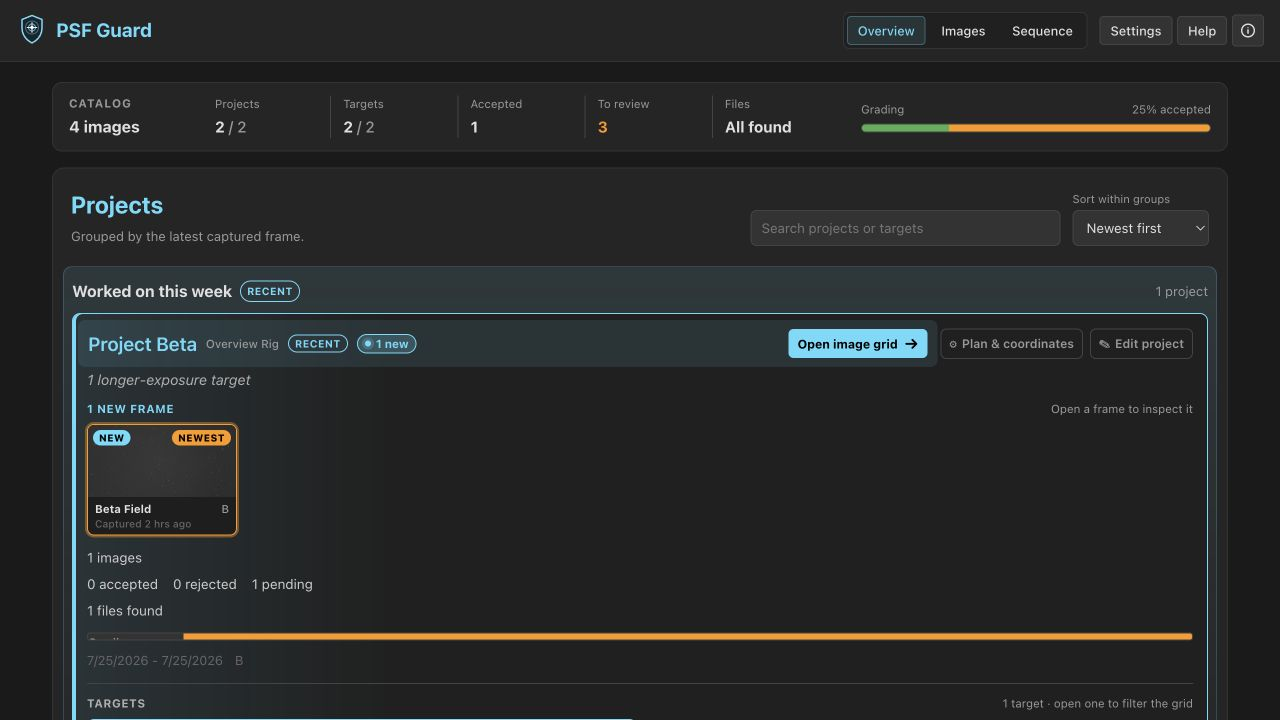
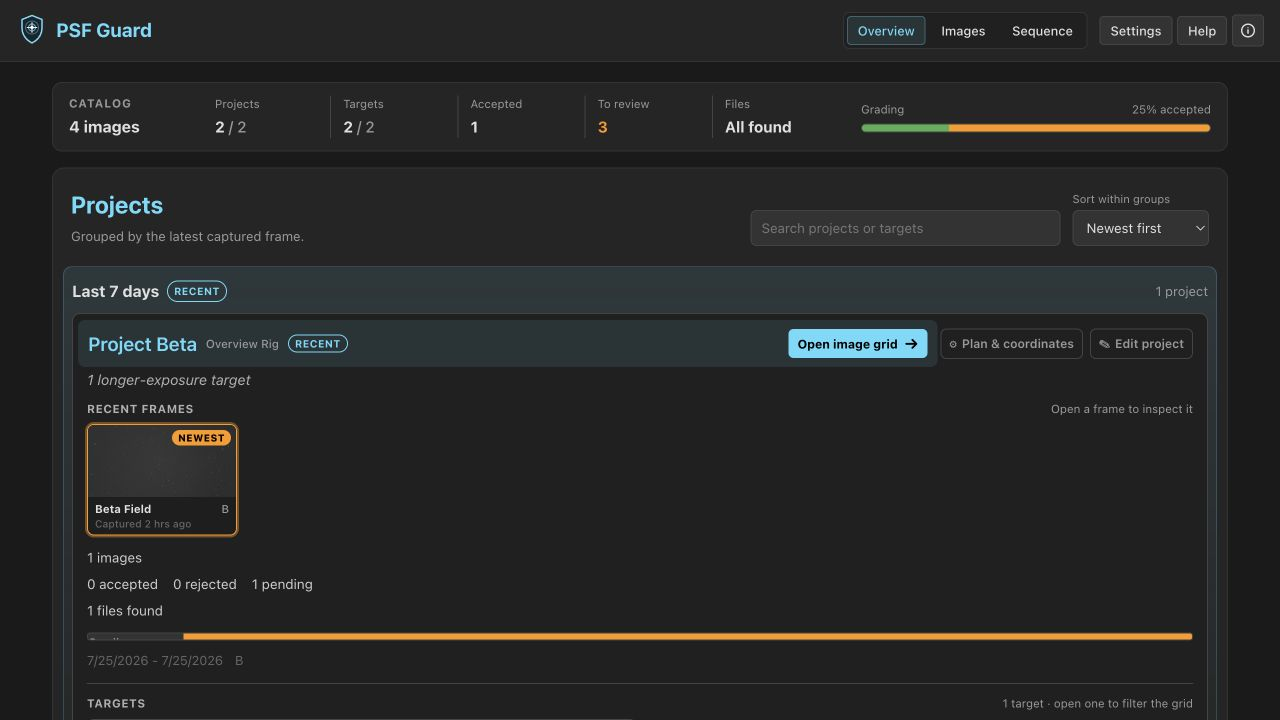
Address project navigation review

Changed region(s): [[0.0312, 0.3972, 0.25, 1.0], [0.2812, 0.9778, 0.4688, 1.0], [0.2812, 0.4583, 0.3438, 0.4889]]

diff --git a/static/src/components/ProjectTargetSelector.tsx b/static/src/components/ProjectTargetSelector.tsx
@@ -22,6 +22,8 @@ export default function ProjectTargetSelector() {
   } = useDbProjectTarget();
   const queryClient = useQueryClient();
   const rootRef = useRef<HTMLDivElement>(null);
+  const projectTriggerRef = useRef<HTMLButtonElement>(null);
+  const targetTriggerRef = useRef<HTMLButtonElement>(null);
   const projectSearchRef = useRef<HTMLInputElement>(null);
   const targetSearchRef = useRef<HTMLInputElement>(null);
   const [projectOpen, setProjectOpen] = useState(false);
@@ -40,12 +42,6 @@ export default function ProjectTargetSelector() {
     mutationFn: () => apiClient.refreshFileCache(dbId!),
     onSuccess: invalidateAllForDb,
     onError: (error) => console.error('File cache refresh failed:', error),
-  });
-
-  const refreshDirectoryCacheMutation = useMutation({
-    mutationFn: () => apiClient.refreshDirectoryCache(dbId!),
-    onSuccess: invalidateAllForDb,
-    onError: (error) => console.error('Directory cache refresh failed:', error),
   });
 
   const refreshBothCachesMutation = useMutation({
@@ -82,6 +78,8 @@ export default function ProjectTargetSelector() {
       if (event.key === 'Escape') {
         setProjectOpen(false);
         setTargetOpen(false);
+        if (projectOpen) projectTriggerRef.current?.focus();
+        else if (targetOpen) targetTriggerRef.current?.focus();
       }
     };
     document.addEventListener('pointerdown', closeMenus);
@@ -90,7 +88,7 @@ export default function ProjectTargetSelector() {
       document.removeEventListener('pointerdown', closeMenus);
       document.removeEventListener('keydown', closeOnEscape);
     };
-  }, []);
+  }, [projectOpen, targetOpen]);
 
   useEffect(() => {
     if (projectOpen) projectSearchRef.current?.focus();
@@ -158,21 +156,21 @@ export default function ProjectTargetSelector() {
       : targetsLoading
         ? 'Loading targets…'
         : selectedTarget?.name ?? 'All targets';
-  const refreshPending =
-    refreshCacheMutation.isPending ||
-    refreshDirectoryCacheMutation.isPending ||
-    refreshBothCachesMutation.isPending;
+  const refreshPending = refreshCacheMutation.isPending || refreshBothCachesMutation.isPending;
 
   return (
     <div ref={rootRef} className="project-target-selector compact">
       <div className="selector-group compact selector-picker">
-        <label id="project-select-label" htmlFor="project-select">Project:</label>
+        <label id="project-select-label" htmlFor="project-select">
+          Project:
+        </label>
         <button
+          ref={projectTriggerRef}
           id="project-select"
           type="button"
           className="compact-select selector-trigger"
           aria-labelledby="project-select-label project-select"
-          aria-haspopup="listbox"
+          aria-haspopup="dialog"
           aria-expanded={projectOpen}
           disabled={projectsLoading}
           onClick={() => {
@@ -185,7 +183,11 @@ export default function ProjectTargetSelector() {
         </button>
 
         {projectOpen && (
-          <div className="selector-popover project-selector-popover">
+          <div
+            className="selector-popover project-selector-popover"
+            role="dialog"
+            aria-label="Choose a project"
+          >
             <input
               ref={projectSearchRef}
               type="search"
@@ -195,12 +197,11 @@ export default function ProjectTargetSelector() {
               placeholder="Type to find a project"
               aria-label="Search projects"
             />
-            <div className="selector-options" role="listbox" aria-label="Projects">
+            <div className="selector-options" aria-label="Projects">
               <button
                 type="button"
                 className={`selector-option ${dbId === null ? 'is-selected' : ''}`}
-                role="option"
-                aria-selected={dbId === null}
+                aria-current={dbId === null ? 'true' : undefined}
                 onClick={() => chooseProject(null, null)}
               >
                 <span>Choose a project</span>
@@ -211,8 +212,9 @@ export default function ProjectTargetSelector() {
                   key={`${database.id}:all`}
                   type="button"
                   className={`selector-option ${dbId === database.id && selectedProjectId === null ? 'is-selected' : ''}`}
-                  role="option"
-                  aria-selected={dbId === database.id && selectedProjectId === null}
+                  aria-current={
+                    dbId === database.id && selectedProjectId === null ? 'true' : undefined
+                  }
                   onClick={() => chooseProject(database.id, null)}
                 >
                   <span>All projects</span>
@@ -237,8 +239,11 @@ export default function ProjectTargetSelector() {
                         key={`${project.db_id}:${project.id}`}
                         type="button"
                         className={`selector-option ${dbId === project.db_id && selectedProjectId === project.id ? 'is-selected' : ''}`}
-                        role="option"
-                        aria-selected={dbId === project.db_id && selectedProjectId === project.id}
+                        aria-current={
+                          dbId === project.db_id && selectedProjectId === project.id
+                            ? 'true'
+                            : undefined
+                        }
                         disabled={!project.has_files}
                         onClick={() => chooseProject(project.db_id, project.id)}
                       >
@@ -266,8 +271,11 @@ export default function ProjectTargetSelector() {
                       key={`${project.db_id}:${project.id}`}
                       type="button"
                       className="selector-option"
-                      role="option"
-                      aria-selected={dbId === project.db_id && selectedProjectId === project.id}
+                      aria-current={
+                        dbId === project.db_id && selectedProjectId === project.id
+                          ? 'true'
+                          : undefined
+                      }
                       disabled={!project.has_files}
                       onClick={() => chooseProject(project.db_id, project.id)}
                     >
@@ -289,13 +297,16 @@ export default function ProjectTargetSelector() {
       </div>
 
       <div className="selector-group compact selector-picker">
-        <label id="target-select-label" htmlFor="target-select">Target:</label>
+        <label id="target-select-label" htmlFor="target-select">
+          Target:
+        </label>
         <button
+          ref={targetTriggerRef}
           id="target-select"
           type="button"
           className="compact-select selector-trigger"
           aria-labelledby="target-select-label target-select"
-          aria-haspopup="listbox"
+          aria-haspopup="dialog"
           aria-expanded={targetOpen}
           disabled={!selectedProjectId || targetsLoading}
           onClick={() => {
@@ -308,7 +319,11 @@ export default function ProjectTargetSelector() {
         </button>
 
         {targetOpen && (
-          <div className="selector-popover target-selector-popover">
+          <div
+            className="selector-popover target-selector-popover"
+            role="dialog"
+            aria-label="Choose a target"
+          >
             <input
               ref={targetSearchRef}
               type="search"
@@ -318,12 +333,11 @@ export default function ProjectTargetSelector() {
               placeholder="Type to find a target"
               aria-label="Search targets"
             />
-            <div className="selector-options" role="listbox" aria-label="Targets">
+            <div className="selector-options" aria-label="Targets">
               <button
                 type="button"
                 className={`selector-option ${selectedTargetId === null ? 'is-selected' : ''}`}
-                role="option"
-                aria-selected={selectedTargetId === null}
+                aria-current={selectedTargetId === null ? 'true' : undefined}
                 onClick={() => chooseTarget(null)}
               >
                 <span>All targets</span>
@@ -334,8 +348,7 @@ export default function ProjectTargetSelector() {
                   key={target.id}
                   type="button"
                   className={`selector-option ${selectedTargetId === target.id ? 'is-selected' : ''}`}
-                  role="option"
-                  aria-selected={selectedTargetId === target.id}
+                  aria-current={selectedTargetId === target.id ? 'true' : undefined}
                   disabled={!target.has_files}
                   onClick={() => chooseTarget(target.id)}
                 >
@@ -364,11 +377,9 @@ export default function ProjectTargetSelector() {
         title={
           refreshBothCachesMutation.isPending
             ? 'Refreshing directory and file caches...'
-            : refreshDirectoryCacheMutation.isPending
-              ? 'Refreshing directory cache...'
-              : refreshCacheMutation.isPending
-                ? 'Refreshing file cache...'
-                : 'Refresh file cache (Shift+Click for directory + file cache)'
+            : refreshCacheMutation.isPending
+              ? 'Refreshing file cache...'
+              : 'Refresh file cache (Shift+Click for directory + file cache)'
         }
       >
         {refreshPending ? '⟳' : '↻'}

diff --git a/static/e2e/navigation.spec.ts b/static/e2e/navigation.spec.ts
@@ -61,6 +61,7 @@ test('project and target menus filter as the user types', async ({ page }) => {
   await expect(page.locator('.image-card')).toHaveCount(3, { timeout: 15_000 });
 
   await page.locator('#project-select').click();
+  await expect(page.getByRole('dialog', { name: 'Choose a project' })).toBeVisible();
   const stackingLayers = await page.evaluate(() => ({
     header: Number.parseInt(getComputedStyle(document.querySelector('.app-header')!).zIndex, 10),
     controls: Number.parseInt(
@@ -73,10 +74,10 @@ test('project and target menus filter as the user types', async ({ page }) => {
   await projectSearch.fill('Beta');
   const beta = page
     .locator('.project-selector-popover')
-    .getByRole('option', { name: /Project Beta/ });
+    .getByRole('button', { name: /Project Beta/ });
   await expect(beta).toBeVisible();
   await expect(
-    page.locator('.project-selector-popover').getByRole('option', {
+    page.locator('.project-selector-popover').getByRole('button', {
       name: /Project Alpha/,
     })
   ).toHaveCount(0);
@@ -84,10 +85,11 @@ test('project and target menus filter as the user types', async ({ page }) => {
   await expect(page).toHaveURL(new RegExp(`db=${dbId}.*project=2`));
 
   await page.locator('#target-select').click();
+  await expect(page.getByRole('dialog', { name: 'Choose a target' })).toBeVisible();
   await page.getByLabel('Search targets').fill('Beta Field');
   await page
     .locator('.target-selector-popover')
-    .getByRole('option', { name: /Beta Field/ })
+    .getByRole('button', { name: /Beta Field/ })
     .click();
   await expect(page).toHaveURL(new RegExp('target=2'));
 });
@@ -106,7 +108,7 @@ test('recent projects rise to a highlighted group', async ({ page }) => {
   await page.goto('/');
   const recentGroup = page.locator('.project-activity-group.is-recent');
   await expect(
-    recentGroup.getByRole('heading', { name: 'Worked on this week' })
+    recentGroup.getByRole('heading', { name: 'Last 7 days' })
   ).toBeVisible({ timeout: 15_000 });
   await expect(recentGroup).toContainText('Project Beta');
   await expect(recentGroup).not.toContainText('Project Alpha');
@@ -142,7 +144,7 @@ test('closed projects stay in collapsed archives', async ({ page }) => {
   await expect(selectorArchive).not.toHaveAttribute('open', '');
   await selectorArchive.locator('summary').click();
   await expect(
-    selectorArchive.getByRole('option', { name: /Project Beta/ })
+    selectorArchive.getByRole('button', { name: /Project Beta/ })
   ).toBeVisible();
 });
 

diff --git a/static/e2e/add-database.spec.ts b/static/e2e/add-database.spec.ts
@@ -36,13 +36,20 @@ test('add a database via settings → see it in the Overview', async ({ page }) 
   await expect(page.getByText('Saved.')).toBeVisible();
   await expect(page.getByText('e2e Rig').first()).toBeVisible();
 
-  // Close the modal and verify the Overview reflects the new DB section. The
-  // merged-overview hooks fan out per-DB queries; give them a moment to
-  // settle after the registry mutation.
+  // Close the modal and verify the Overview reflects both projects from the
+  // new database. The merged-overview hooks fan out per-DB queries; give them
+  // a moment to settle after the registry mutation.
   await page.getByRole('button', { name: 'Done' }).click();
+  await expect(page.getByRole('heading', { name: 'Earlier work' })).toBeVisible({
+    timeout: 15_000,
+  });
   await expect(
-    page.getByRole('button', { name: /e2e Rig.*2 projects/i })
-  ).toBeVisible({ timeout: 15_000 });
+    page.getByRole('button', { name: 'Open Project Alpha image grid' })
+  ).toBeVisible();
+  await expect(
+    page.getByRole('button', { name: 'Open Project Beta image grid' })
+  ).toBeVisible();
+  await expect(page.locator('.project-database', { hasText: 'e2e Rig' })).toHaveCount(2);
 });
 
 test('add then remove a database', async ({ page }) => {

diff --git a/static/src/utils/projectNavigation.ts b/static/src/utils/projectNavigation.ts
@@ -11,7 +11,7 @@ export interface NavigableProject {
   db_name: string;
   display_name: string;
   name: string;
-  state?: number;
+  state: number;
   latest_image_date?: number | null;
   date_range?: { latest?: number };
   total_images?: number;
@@ -24,8 +24,8 @@ export interface ProjectActivityGroup<T extends NavigableProject> {
 }
 
 const ACTIVITY_GROUPS: Array<{ id: ProjectActivityGroupId; label: string }> = [
-  { id: 'recent', label: 'Worked on this week' },
-  { id: 'month', label: 'Worked on this month' },
+  { id: 'recent', label: 'Last 7 days' },
+  { id: 'month', label: 'Last 30 days' },
   { id: 'earlier', label: 'Earlier work' },
   { id: 'undated', label: 'Date unknown' },
 ];
@@ -44,8 +44,8 @@ export function isRecentProject(
 ): boolean {
   const latest = projectLastWorkedAt(project);
   if (latest === null) return false;
-  const age = nowMilliseconds / 1000 - latest;
-  return age >= 0 && age <= RECENT_PROJECT_SECONDS;
+  const age = Math.max(0, nowMilliseconds / 1000 - latest);
+  return age <= RECENT_PROJECT_SECONDS;
 }
 
 export function projectMatchesSearch(project: NavigableProject, search: string): boolean {

diff --git a/static/src/utils/__tests__/projectNavigation.test.ts b/static/src/utils/__tests__/projectNavigation.test.ts
@@ -48,6 +48,12 @@ describe('project navigation', () => {
       ['earlier', 'Old'],
       ['undated', 'Unknown'],
     ]);
+    expect(groups.map((group) => group.label)).toEqual([
+      'Last 7 days',
+      'Last 30 days',
+      'Earlier work',
+      'Date unknown',
+    ]);
   });
 
   it('sorts by date, name, or image count', () => {
@@ -64,5 +70,11 @@ describe('project navigation', () => {
     expect(projectMatchesSearch(closed, 'flaming')).toBe(true);
     expect(projectMatchesSearch(closed, 'demo catalog')).toBe(true);
     expect(projectMatchesSearch(closed, 'veil')).toBe(false);
+  });
+
+  it('keeps a slightly future capture in the recent group and badge', () => {
+    const future = project(-1, 'Clock skew', -1);
+    expect(isRecentProject(future, NOW)).toBe(true);
+    expect(groupProjectsByActivity([future], NOW)[0]?.id).toBe('recent');
   });
 });

diff --git a/static/src/api/types.ts b/static/src/api/types.ts
@@ -8,7 +8,7 @@ export interface Project {
   display_name: string;
   description: string | null;
   has_files: boolean;
-  state?: number;
+  state: number;
   latest_image_date: number | null;
 }
 
@@ -982,7 +982,7 @@ export interface ProjectOverview {
   display_name: string;
   description?: string;
   has_files: boolean;
-  state?: number;
+  state: number;
   target_count: number;
   total_images: number;
   accepted_images: number;

diff --git a/static/src/utils/__tests__/projectRecency.test.ts b/static/src/utils/__tests__/projectRecency.test.ts
@@ -19,6 +19,7 @@ const project: ProjectOverview & { db_id: string } = {
   name: 'Flaming Star',
   display_name: 'Flaming Star',
   has_files: true,
+  state: 1,
   target_count: 1,
   total_images: 12,
   accepted_images: 8,
